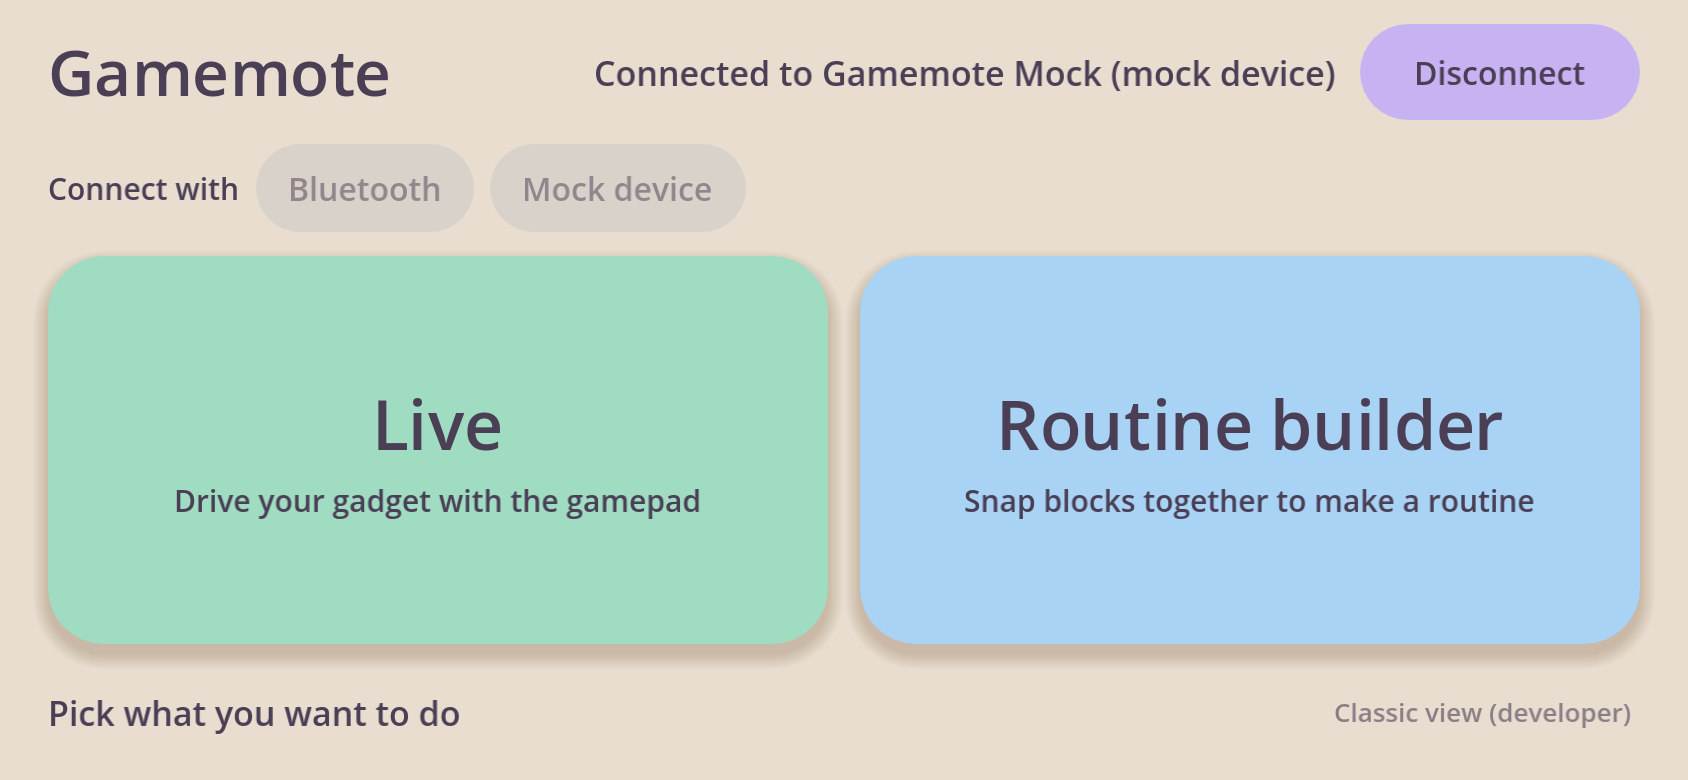
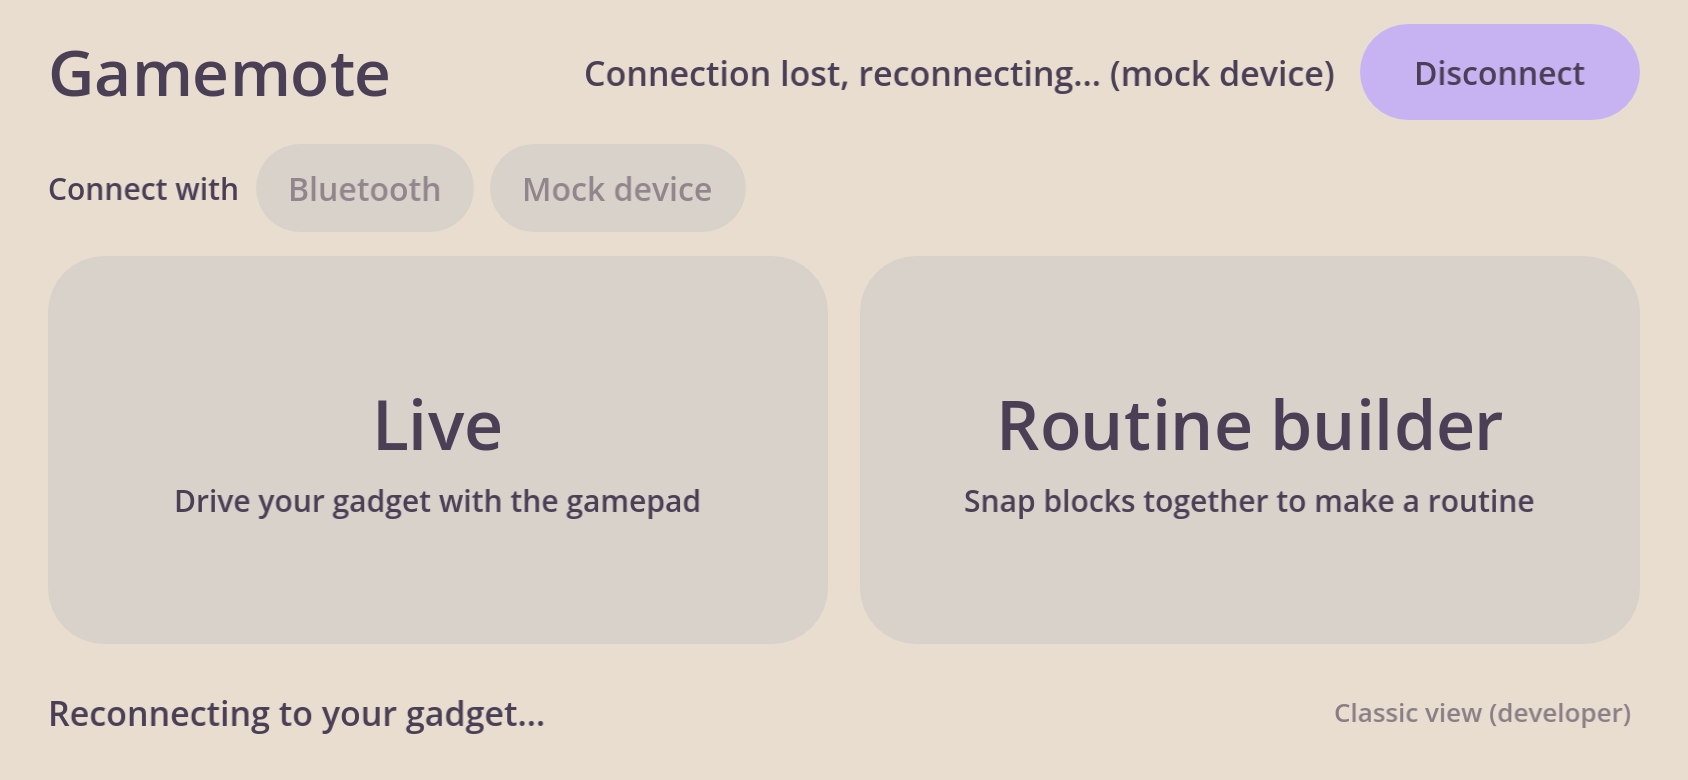
docs: close story 001 (Home and connect)
All 7 criteria pass. Re-captured the Home reconnecting screenshot (the
earlier one was taken before the screen redrew) and added the Builder
reconnecting screenshot.

Story: production/epics/gamemote/story-001-home-and-connect.md

Claude-Session: https://claude.ai/code/session_01X3c5DnpoiEYLwjGZqKdiMb

diff --git a/production/session-state/active.md b/production/session-state/active.md
@@ -5,14 +5,13 @@ Task:
 <!-- /STATUS -->
 
 <!-- CHECKPOINT -->
-**Updated:** 2026-11-06
+**Updated:** 2026-11-10
 **Branch:** `claude/intelligent-planck-1tqhwt` (also pushed to `main`)
-**Current task:** /dev-story — production/epics/gamemote/story-001-home-and-connect.md (Home and connect, split the app into two modes)
-**Next step:** /story-done production/epics/gamemote/story-001-home-and-connect.md
+**Current task:** /story-done — production/epics/gamemote/story-001-home-and-connect.md: COMPLETE, closed
+**Next step:** /dev-story production/epics/gamemote/story-002-live-mode.md
 **Blocked on:** nothing
-**Files in progress:** app/ui/home/home.gd, app/ui/home/home.tscn, app/ui/live/live_mode.gd, app/ui/live/live_mode.tscn, app/ui/builder/builder_mode.gd, app/ui/builder/builder_mode.tscn, app/ui/table/table.gd, app/ui/table/clay.gd, app/ui/main.gd, app/project.godot
-**Run result:** OBSERVED — Home (disconnected: tiles greyed with "Connect your gadget first"; connected: Live and Routine builder tiles live), Live (pad only, Back), Builder (board only, Back), reconnecting shown on Home and Live; iPhone 1688x780 and iPad 2048x1536 in production/qa/evidence/story-001-home-and-connect/
-**Open questions:** builder blocks look small on iPhone (story 006 target sizes); not yet tried on a real device
+**Files in progress:** none
+**Open questions:** none (tech debt logged: 0 items)
 <!-- /CHECKPOINT -->
 
 # Session state (checkpoint)

diff --git a/production/epics/gamemote/story-001-home-and-connect.md b/production/epics/gamemote/story-001-home-and-connect.md
@@ -1,12 +1,12 @@
 # Story 001: Home and connect, split the app into two modes
 
 > **Epic**: Gamemote
-> **Status**: In Progress
+> **Status**: Complete
 > **Layer**: Feature
 > **Type**: UI
 > **Estimate**: M
 > **Manifest Version**: N/A (minimal — no control manifest)
-> **Last Updated**: 2026-11-06
+> **Last Updated**: 2026-11-10
 
 ## Context
 
@@ -75,7 +75,7 @@
 **Story Type**: UI
 **Required evidence**: a retained screenshot of Home (disconnected, connected) and each mode's entry, at iPhone and iPad sizes, in `production/qa/evidence/`.
 
-**Status**: [ ] Not yet created
+**Status**: [x] Created — production/qa/evidence/story-001-home-and-connect/
 
 ---
 
@@ -83,3 +83,12 @@
 
 - Depends on: None
 - Unlocks: `production/epics/gamemote/story-002-live-mode.md`, `story-003-routine-builder.md`, `story-004-peek.md`, `story-006-kid-friendly-basics.md`
+
+---
+
+## Completion Notes
+**Completed**: 2026-11-10
+**Criteria**: 7/7 passing (none deferred; Connect, Back, auto-reconnect and safe area confirmed by the owner on a build)
+**Deviations**: None
+**Test Evidence**: production/qa/evidence/story-001-home-and-connect/ (11 screenshots, iPhone 1688x780 and iPad 2048x1536; unit tests waived at qa.level minimal)
+**Reviewed by**: self, no independent review
